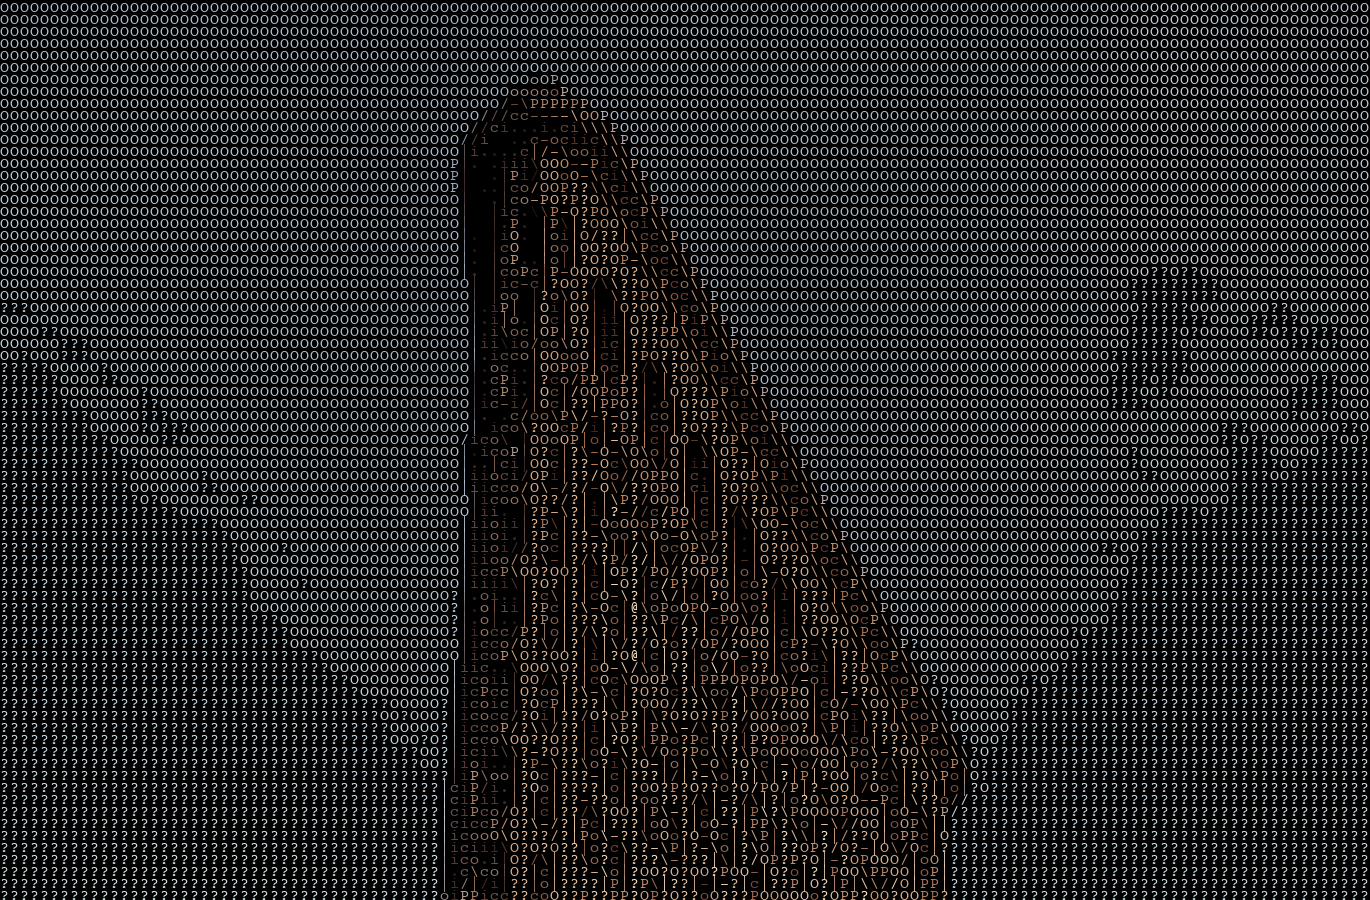
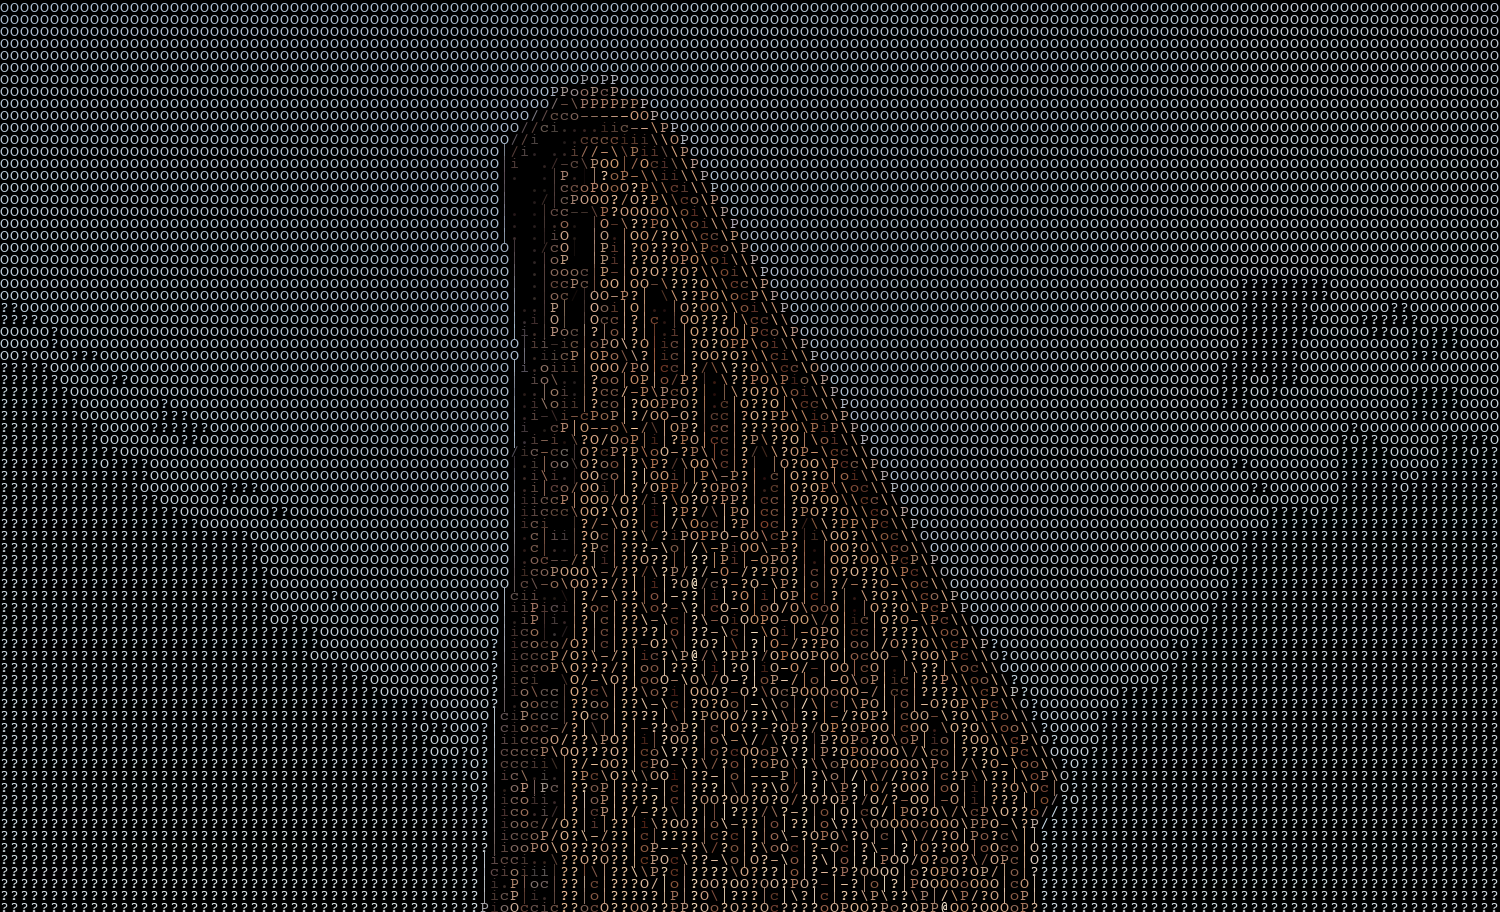
updating images

diff --git a/main.py b/main.py
@@ -13,9 +13,9 @@ def parse_args():
                         help="Path to save the output file (required for 'image' or 'html' formats)")
 
     parser.add_argument("-f", "--format", type=str, choices=['terminal', 'image', 'html'], default='terminal',
-                        help="Output format: 'terminal' (print to console), 'image' (save as png), or 'html' (save as webpage)")
+                        help="Eather 'terminal' (print to console), 'image' (save as png), or 'html' (save as webpage)")
 
-    parser.add_argument("-w", "--width", type=int, default=150, help="Width of output in characters")
+    parser.add_argument("-w", "--width", type=int, default=150, help="Width of output in characters (default: 150)")
 
     parser.add_argument(
         "--edge",
@@ -39,8 +39,6 @@ if __name__ == "__main__":
     if args.format in ['image', 'html'] and not args.output_path:
         print(f"Error: --output_path is required when using format '{args.format}'")
         exit(1)
-
-    print(f"--- Processing: {args.input_path} ---")
 
     if is_video(args.input_path):
         convert_video_to_ascii(

diff --git a/README.md b/README.md
@@ -50,18 +50,30 @@ python main.py --input_path --output_path --format --width --edge
 ### Normal usage exemple:
 
 ```
-python main.py -i ./images/flat_iron.png -o ./images/results/flat_iron_ascii.png -f image
+python main.py -i ./images/flat_iron.png -f terminal
 ```
 
 | Original Flat Iron                            | Ascii Flat Iron                                          |
 |-----------------------------------------------|----------------------------------------------------------|
-| ![original flat iron](./images/flat_iron.png) | ![ascii flat iron](./images/results/flat_iron_ascii.png) |
+| ![original flat iron](./images/flat_iron.png) | ![ascii flat iron](./images/results/flat_iron_ascii.svg) |
 
 
 
 | Original Mario                            | Ascii Mario                                          |
 |-------------------------------------------|------------------------------------------------------|
 | ![original flat iron](./images/mario.png) | ![ascii flat iron](./images/results/mario_ascii.svg) |
+
+### Results without edge detection:
+
+#### Flat Iron:
+| With edge detection                                         | Without edge detection                                          |
+|-------------------------------------------------------------|-----------------------------------------------------------------|
+| ![original flat iron](./images/results/flat_iron_ascii.svg) | ![ascii flat iron](./images/results/flat_iron_ascii_noedge.svg) |
+
+#### Mario:
+| With edge detection                                     | Without edge detection                                      |
+|---------------------------------------------------------|-------------------------------------------------------------|
+| ![original flat iron](./images/results/mario_ascii.svg) | ![ascii flat iron](./images/results/mario_ascii_noedge.svg) |
 
 ## References:
 
